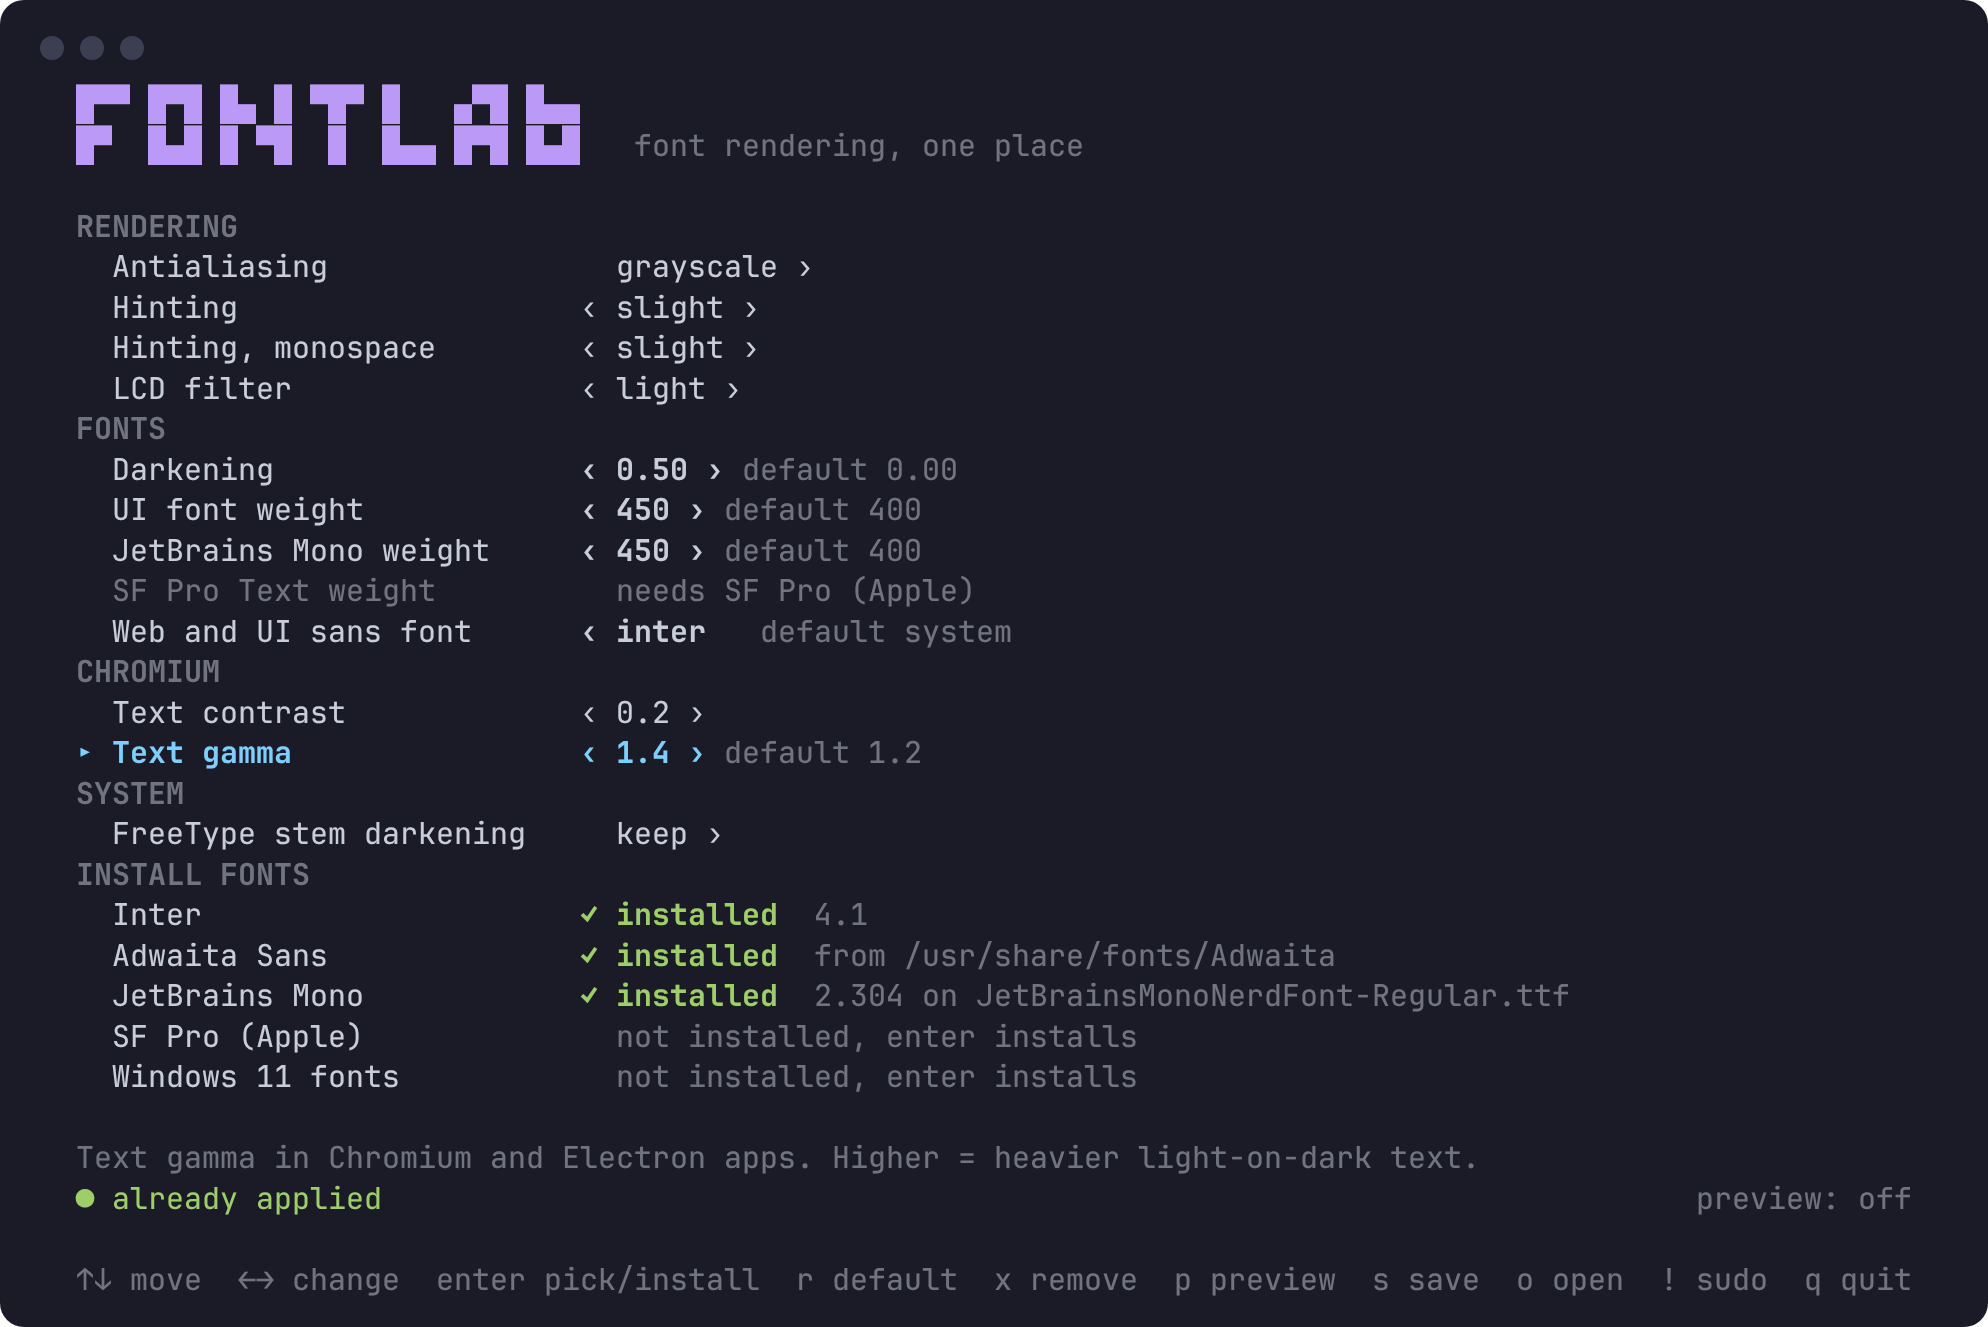
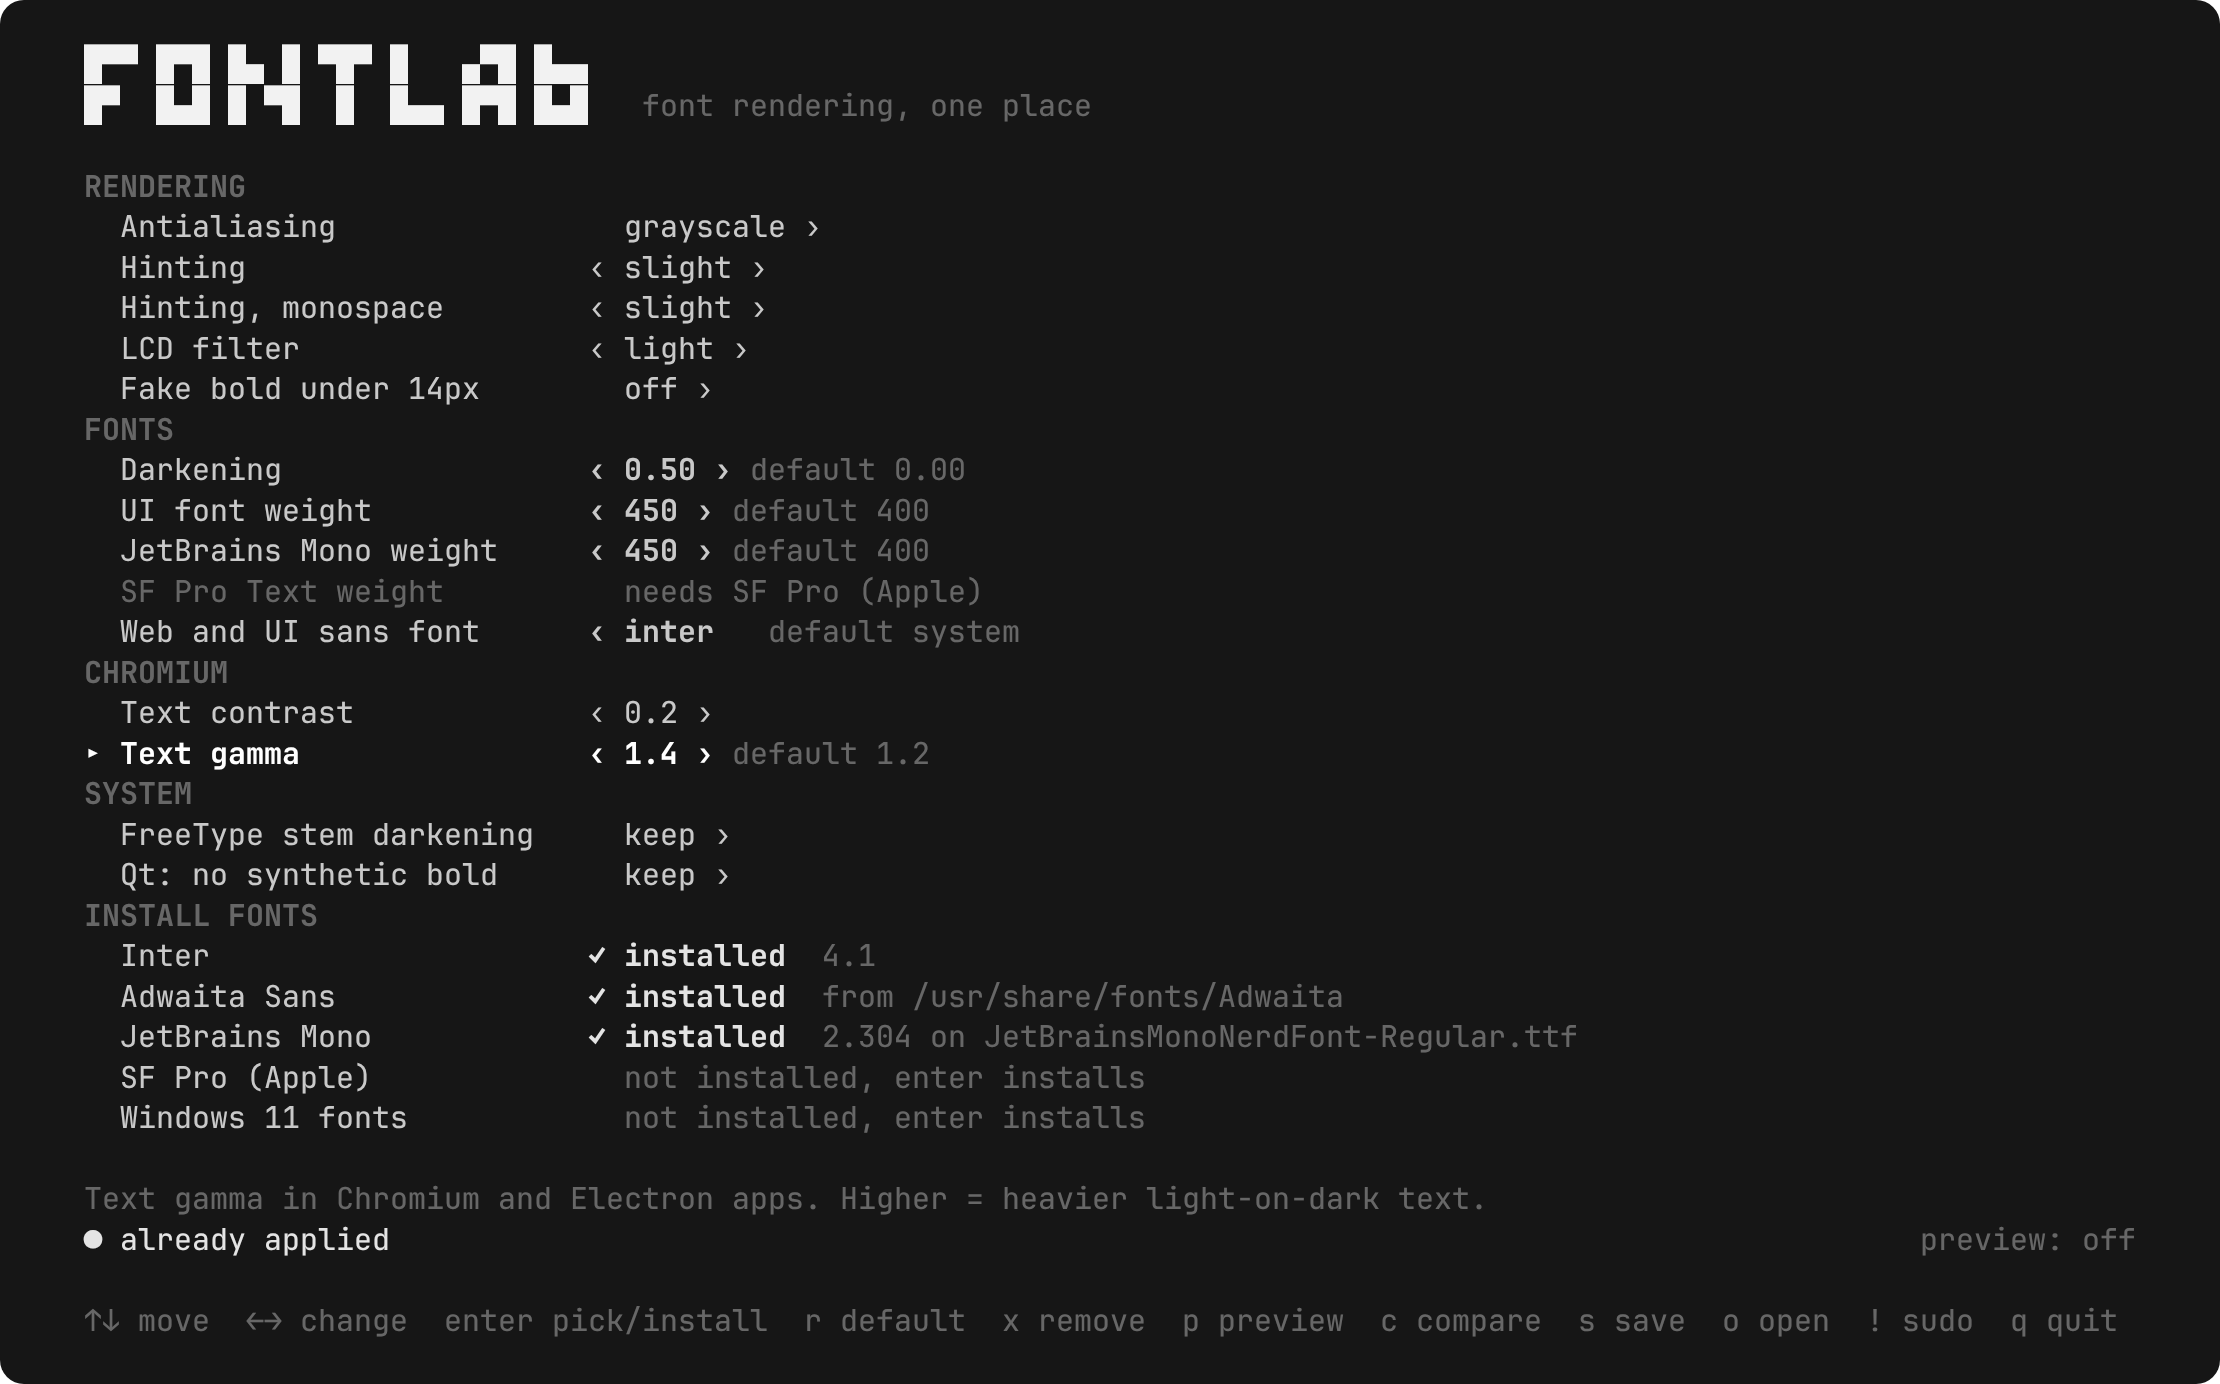
README: monochrome screenshot with the new settings, lucidglyph credit, reset steps

diff --git a/README.md b/README.md
@@ -147,13 +147,15 @@ sandbox that fontlab can't reach, so they keep Chromium's values.
 ```
 
 This removes everything fontlab wrote but keeps your fonts and presets. Add `--purge`
-to delete those as well. `/etc/environment` stays as it is.
+to delete those as well. `/etc/environment` stays as it is. To reset it first, run
+`fontlab set freetype_darkening=off qt_no_synth_bold=off` and then `fontlab apply --system`.
 
 ## Credits
 
 The darkening code is a Python port of FreeType's `FT_Outline_EmboldenXY`. The macOS
-strength values come from the Pathfinder project. Inter is by Rasmus Andersson and
-JetBrains Mono is by JetBrains, both under the SIL Open Font License.
+strength values come from the Pathfinder project. The `strong` FreeType values, the
+icon font rules and the Droid Sans rule follow [lucidglyph](https://github.com/maximilionus/lucidglyph). Inter is by Rasmus
+Andersson and JetBrains Mono is by JetBrains, both under the SIL Open Font License.
 
 ## License
 
